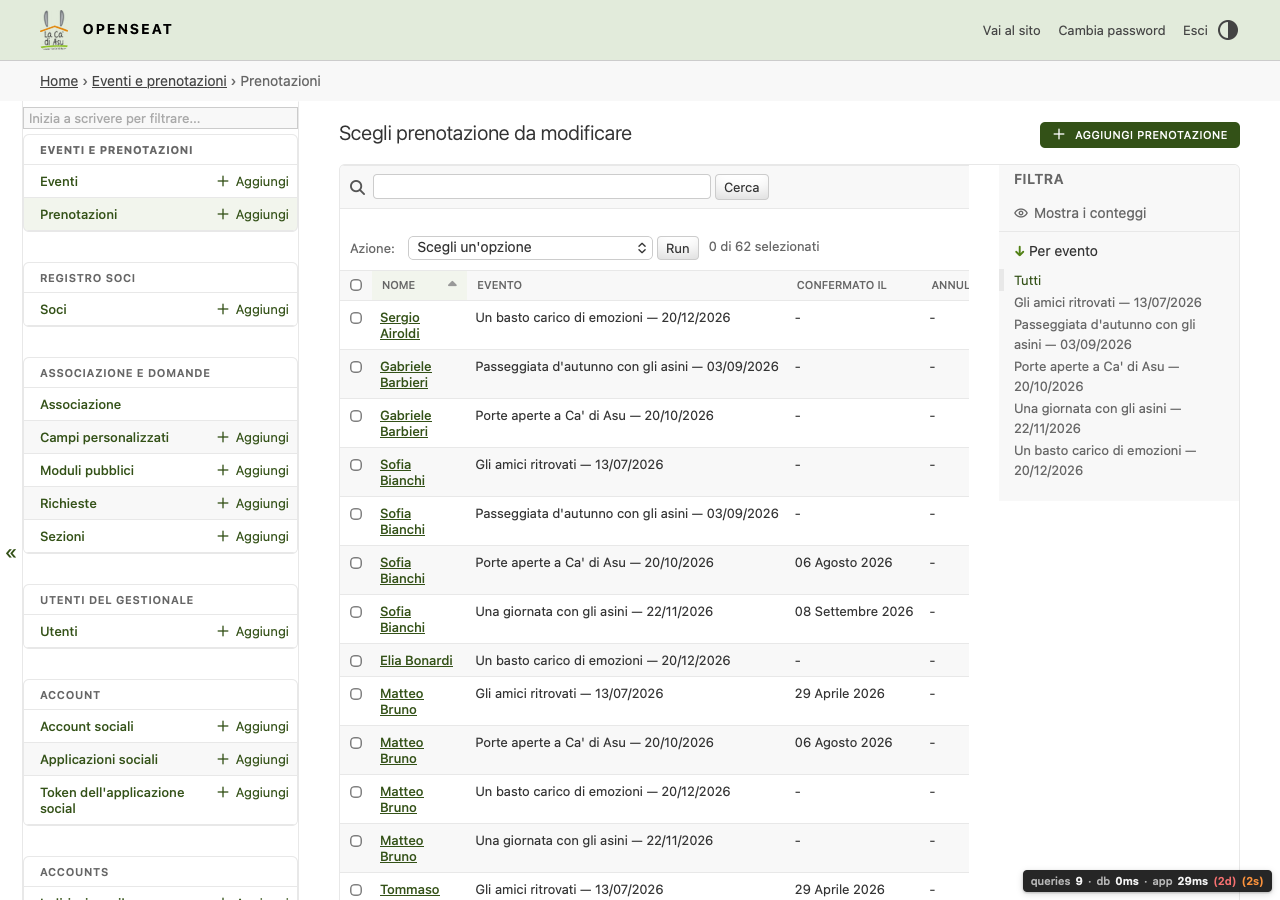
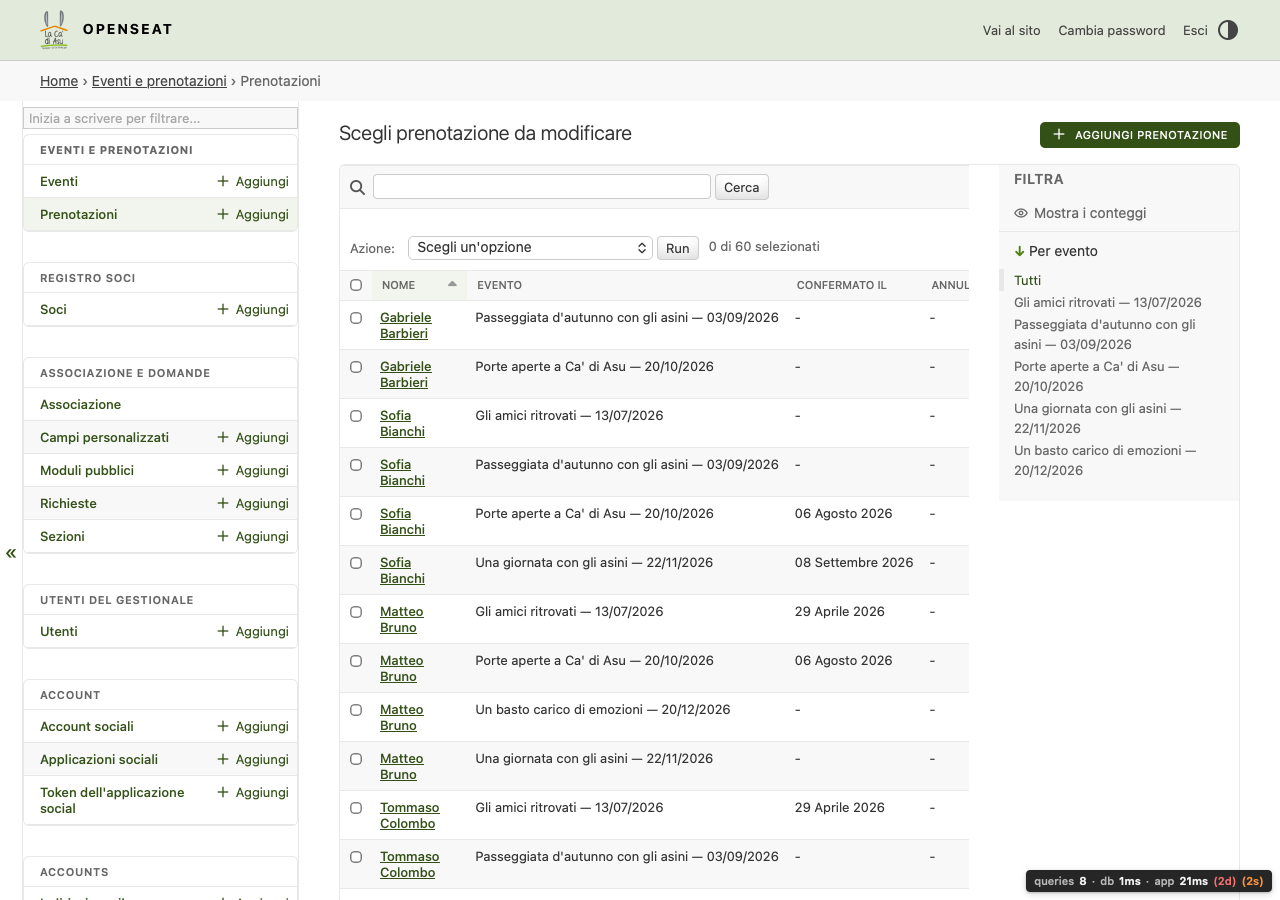
docs: retake screenshots with real personal data and fix admin guide quick link fix #84

diff --git a/docs/it/index.md b/docs/it/index.md
@@ -42,7 +42,7 @@ dall'associazione.
 
     Associazione, moduli, eventi, check-in, soci e permessi.
 
-    [:octicons-arrow-right-24: Costruttore di Moduli](admin-guide/form-builder.md)
+    [:octicons-arrow-right-24: Associazione](admin-guide/association.md)
 
 -   :material-git:{ .lg .middle } __Open Source__
 

diff --git a/docs/en/index.md b/docs/en/index.md
@@ -39,7 +39,7 @@ organisation.
 
     Association, forms, events, check-in, members and permissions.
 
-    [:octicons-arrow-right-24: Form Builder](admin-guide/form-builder.md)
+    [:octicons-arrow-right-24: Association](admin-guide/association.md)
 
 -   :material-git:{ .lg .middle } __Open Source__
 
